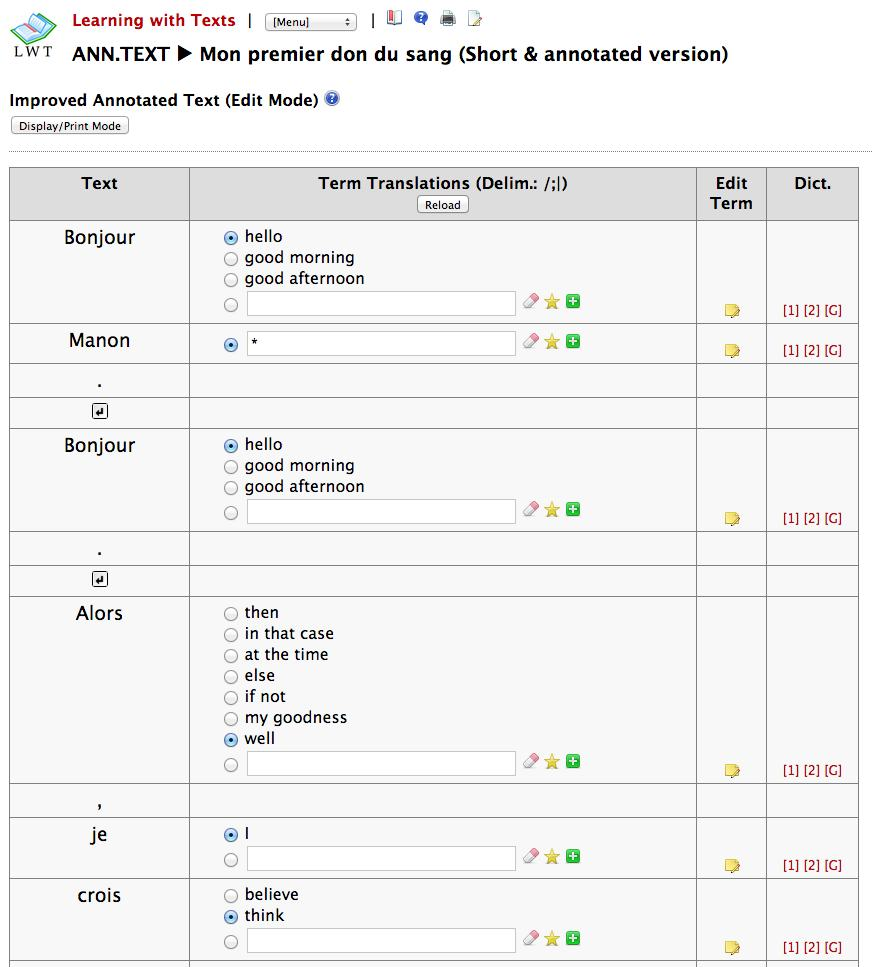
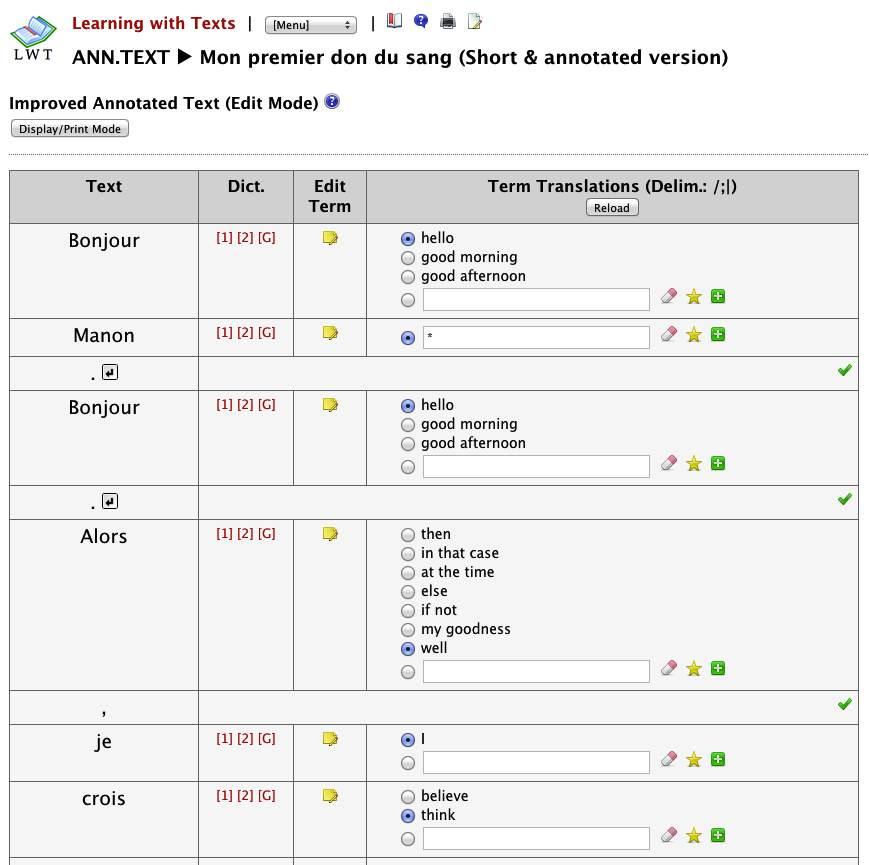
Version 1.5.0 (21-Apr-2013 18:39)

diff --git a/ajax_edit_impr_text.php b/ajax_edit_impr_text.php
@@ -46,12 +46,12 @@ function make_trans($i, $wid, $trans, $word, $lang) {
 	} else {
 		$r = '<span class="nowrap"><input checked="checked" type="radio" name="rg' . $i . '" value="" />&nbsp;<input class="impr-ann-text" type="text" name="tx' . $i . '" id="tx' . $i . '" value="' . tohtml($trans) . '" maxlength="50" size="40" />';
 	}
-	$r .= ' <img class="click" src="icn/eraser.png" title="Erase Text Field" alt="Erase Text Field" onclick="$(\'#tx' . $i . '\').val(\'\').trigger(\'change\');" />';
-	$r .= ' <img class="click" src="icn/star.png" title="* (Set to Term)" alt="* (Set to Term)" onclick="$(\'#tx' . $i . '\').val(\'*\').trigger(\'change\');" />';
+	$r .= ' &nbsp;<img class="click" src="icn/eraser.png" title="Erase Text Field" alt="Erase Text Field" onclick="$(\'#tx' . $i . '\').val(\'\').trigger(\'change\');" />';
+	$r .= ' &nbsp;<img class="click" src="icn/star.png" title="* (Set to Term)" alt="* (Set to Term)" onclick="$(\'#tx' . $i . '\').val(\'*\').trigger(\'change\');" />';
 	if ($widset)
-		$r .= ' <img class="click" src="icn/plus-button.png" title="Save another translation to existent term" alt="Save another translation to existent term" onclick="addTermTranslation(' . $wid . ', \'#tx' . $i . '\',\'\',' . $lang . ');" />';
+		$r .= ' &nbsp;<img class="click" src="icn/plus-button.png" title="Save another translation to existent term" alt="Save another translation to existent term" onclick="addTermTranslation(' . $wid . ', \'#tx' . $i . '\',\'\',' . $lang . ');" />';
 	else 
-		$r .= ' <img class="click" src="icn/plus-button.png" title="Save translation to new term" alt="Save translation to new term" onclick="addTermTranslation(0, \'#tx' . $i . '\',' . prepare_textdata_js($word) . ',' . $lang . ');" />';
+		$r .= ' &nbsp;<img class="click" src="icn/plus-button.png" title="Save translation to new term" alt="Save translation to new term" onclick="addTermTranslation(0, \'#tx' . $i . '\',' . prepare_textdata_js($word) . ',' . $lang . ');" />';
 	$r .= '</span>';
 	return $r;
 }
@@ -85,17 +85,24 @@ if ($ann_exists) {
 $r = "";
 $r .= '<form action="" method="post"><table class="tab1" cellspacing="0" cellpadding="5"><tr>';
 $r .= '<th class="th1 center">Text</th>';
-$r .= '<th class="th1 center">Term Translations (Delim.: ' . tohtml(getSettingWithDefault('set-term-translation-delimiters')) . ')<br /><input type="button" value="Reload" onclick="do_ajax_edit_impr_text(0);" /></th>';
-$r .= '<th class="th1 center">Edit<br />Term</th>';
 $r .= '<th class="th1 center">Dict.</th>';
+$r .= '<th class="th1 center">Edit<br />Term</th>';
+$r .= '<th class="th1 center">Term Translations (Delim.: ' . tohtml(getSettingWithDefault('set-term-translation-delimiters')) . ')<br /><input type="button" value="Reload" onclick="do_ajax_edit_impr_text(0);" /></th>';
 $r .= '</tr>';
 $nonterms = "";
 $items = preg_split('/[\n]/u', $ann);
 $i = 0;
+$nontermbuffer ='';
 foreach ($items as $item) {
 	$i++;
 	$vals = preg_split('/[\t]/u', $item);
 	if ($vals[0] > -1) {
+		if ($nontermbuffer != '') {
+			$r .= '<tr><td class="td1 center" style="font-size:' . $textsize . '%;">';
+			$r .= $nontermbuffer; 
+			$r .= '</td><td class="td1 right" colspan="3"><img class="click" src="icn/tick.png" title="Back to \'Display/Print Mode\'" alt="Back to \'Display/Print Mode\'" onclick="location.href=\'print_impr_text.php?text=' . $textid . '\';" /></td></tr>';
+			$nontermbuffer ='';
+		}
 		$id = '';
 		$trans = '';
 		if (count($vals) > 2) {
@@ -109,30 +116,32 @@ foreach ($items as $item) {
 		$r .= '<tr><td class="td1 center" style="font-size:' . $textsize . '%;"' . 
 			($rtlScript ? ' dir="rtl"' : '') . '><span id="term' . $i . '">';
 		$r .= tohtml($vals[1]);
-		$r .= '</span></td>';
-		$r .= '<td class="td1">';
-		$r .= make_trans($i, $id, $trans, $vals[1], $langid);
-		$r .= '</td><td class="td1bot center">';
+		$r .= '</span></td><td class="td1 center" nowrap="nowrap">';
+		$r .= makeDictLinks($langid,prepare_textdata_js($vals[1]));
+		$r .= '</td><td class="td1 center">';
 		if ($id == '') {
 			$r .= '&nbsp;';
 		} else {
 			$r .= '<a name="rec' . $i . '"></a><span class="click" onclick="oewin(\'edit_word.php?fromAnn=\' + $(document).scrollTop() + \'&amp;wid=' . $id . '\');"><img src="icn/sticky-note--pencil.png" title="Edit Term" alt="Edit Term" /></span>';
 		}
-		$r .= '</td><td class="td1bot center" nowrap="nowrap">';
-		$r .= makeDictLinks($langid,prepare_textdata_js($vals[1]));
+		$r .= '</td><td class="td1" style="font-size:90%;">';
+		$r .= make_trans($i, $id, $trans, $vals[1], $langid);
 		$r .= '</td></tr>';
 	} else {
 		if (trim($vals[1]) != '') {
-			$r .= '<tr><td class="td1 center" style="font-size:' . $textsize . '%;">';
-			$r .= str_replace("¶", '<img src="icn/new_line.png" title="New Line" alt="New Line" />', tohtml($vals[1])); 
-			$r .= '</td><td class="td1">&nbsp;</td><td class="td1">&nbsp;</td><td class="td1">&nbsp;</td></tr>';
+			$nontermbuffer .= str_replace("¶", '<img src="icn/new_line.png" title="New Line" alt="New Line" />', tohtml($vals[1])); 
 		}
 	}
 }
+if ($nontermbuffer != '') {
+	$r .= '<tr><td class="td1 center" style="font-size:' . $textsize . '%;">';
+	$r .= $nontermbuffer; 
+	$r .= '</td><td class="td1 right" colspan="3"><img class="click" src="icn/tick.png" title="Back to \'Display/Print Mode\'" alt="Back to \'Display/Print Mode\'" onclick="location.href=\'print_impr_text.php?text=' . $textid . '\';" /></td></tr>';
+}
 $r .= '<th class="th1 center">Text</th>';
-$r .= '<th class="th1 center">Term Translations (Delim.: ' . tohtml(getSettingWithDefault('set-term-translation-delimiters')) . ')<br /><input type="button" value="Reload" onclick="do_ajax_edit_impr_text(1e6);" /><a name="bottom"></a></th>';
-$r .= '<th class="th1 center">Edit<br />Term</th>';
 $r .= '<th class="th1 center">Dict.</th>';
+$r .= '<th class="th1 center">Edit<br />Term</th>';
+$r .= '<th class="th1 center">Term Translations (Delim.: ' . tohtml(getSettingWithDefault('set-term-translation-delimiters')) . ')<br /><input type="button" value="Reload" onclick="do_ajax_edit_impr_text(1e6);" /><a name="bottom"></a></th>';
 $r .= '</tr></table></form>' . "\n";
 $r .= '<script type="text/javascript">' . "\n";
 $r .= '//<![CDATA[' . "\n";
